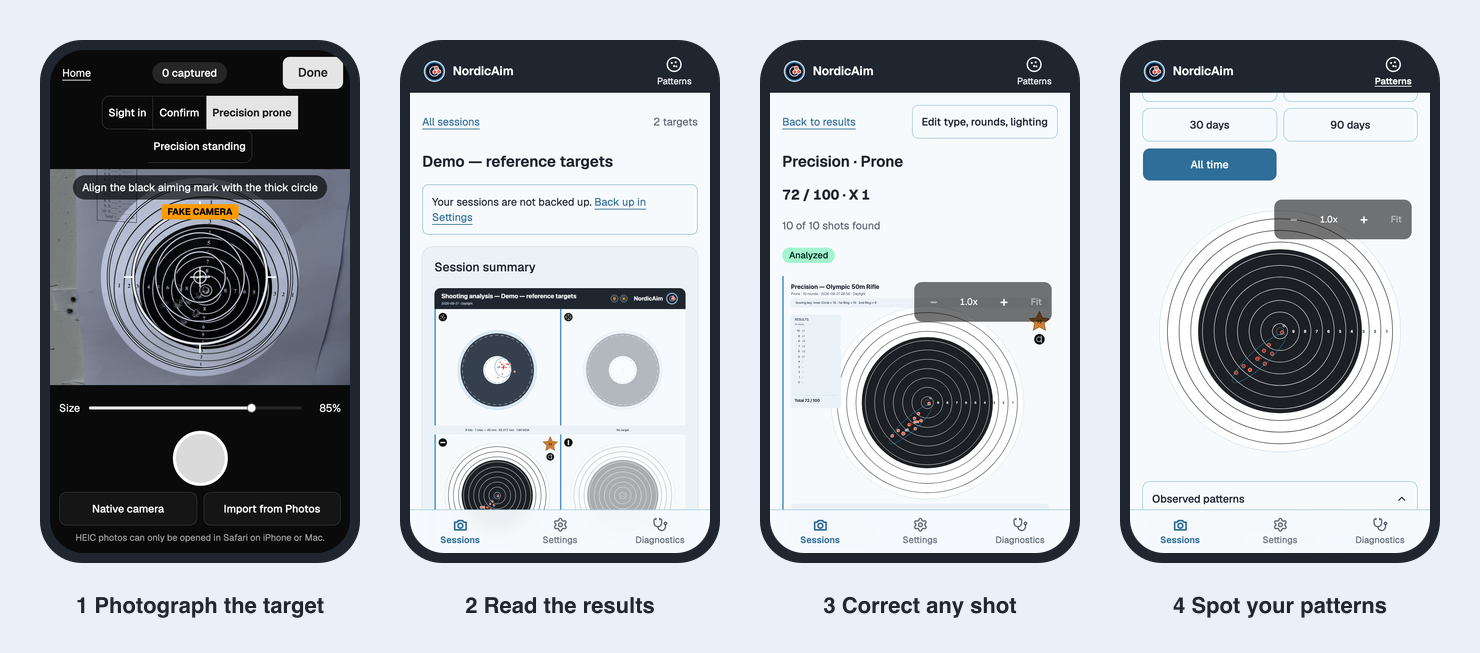
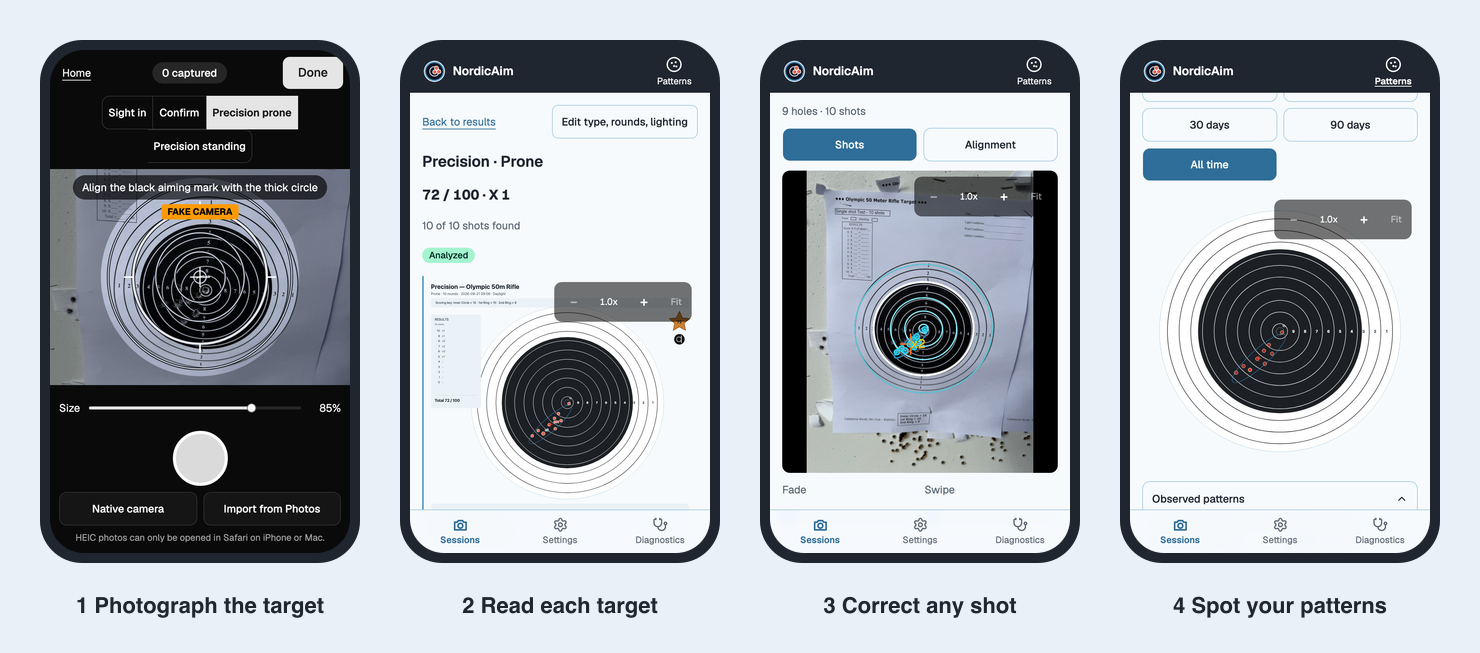
Hero image: screen 2 is a single target read out, screen 3 is the shot correction screen

diff --git a/docs/guide/workflow.md b/docs/guide/workflow.md
@@ -1,7 +1,7 @@
 # The NordicAim workflow
 
 <p align="center">
-  <img src="../assets/hero-screens.png" alt="Four phone screens: the capture overlay lined up on a target, the session summary with scores, the shot adjustment screen, and the patterns view" width="900">
+  <img src="../assets/hero-screens.png" alt="Four phone screens: the capture overlay lined up on a target, a single target read out with its score, the shot correction screen, and the patterns view" width="900">
 </p>
 
 The whole thing in eight steps. Steps 1 to 3 you do once. Steps 4 to 8 you repeat every time you shoot.
@@ -78,7 +78,7 @@ Each target opens on its own screen with the holes NordicAim found drawn on the 
 To step through the whole session in order, tap **Review session**. Targets that need attention come first.
 
 <p align="center">
-  <img src="../assets/screens/adjust.jpg" width="300" alt="The target screen with the shots drawn on the photo, ready to check and adjust">
+  <img src="../assets/screens/adjust.jpg" width="300" alt="The shot correction screen with Shots and Alignment modes and the shots drawn on the photo">
 </p>
 
 Anything you place or move by hand is kept. NordicAim never overwrites your corrections.

diff --git a/README.md b/README.md
@@ -18,7 +18,7 @@
 </p>
 
 <p align="center">
-  <img src="docs/assets/hero-screens.png" alt="Four phone screens: the capture overlay lined up on a target, the session summary with scores, the shot adjustment screen, and the patterns view" width="900">
+  <img src="docs/assets/hero-screens.png" alt="Four phone screens: the capture overlay lined up on a target, a single target read out with its score, the shot correction screen, and the patterns view" width="900">
 </p>
 
 ## What it does
